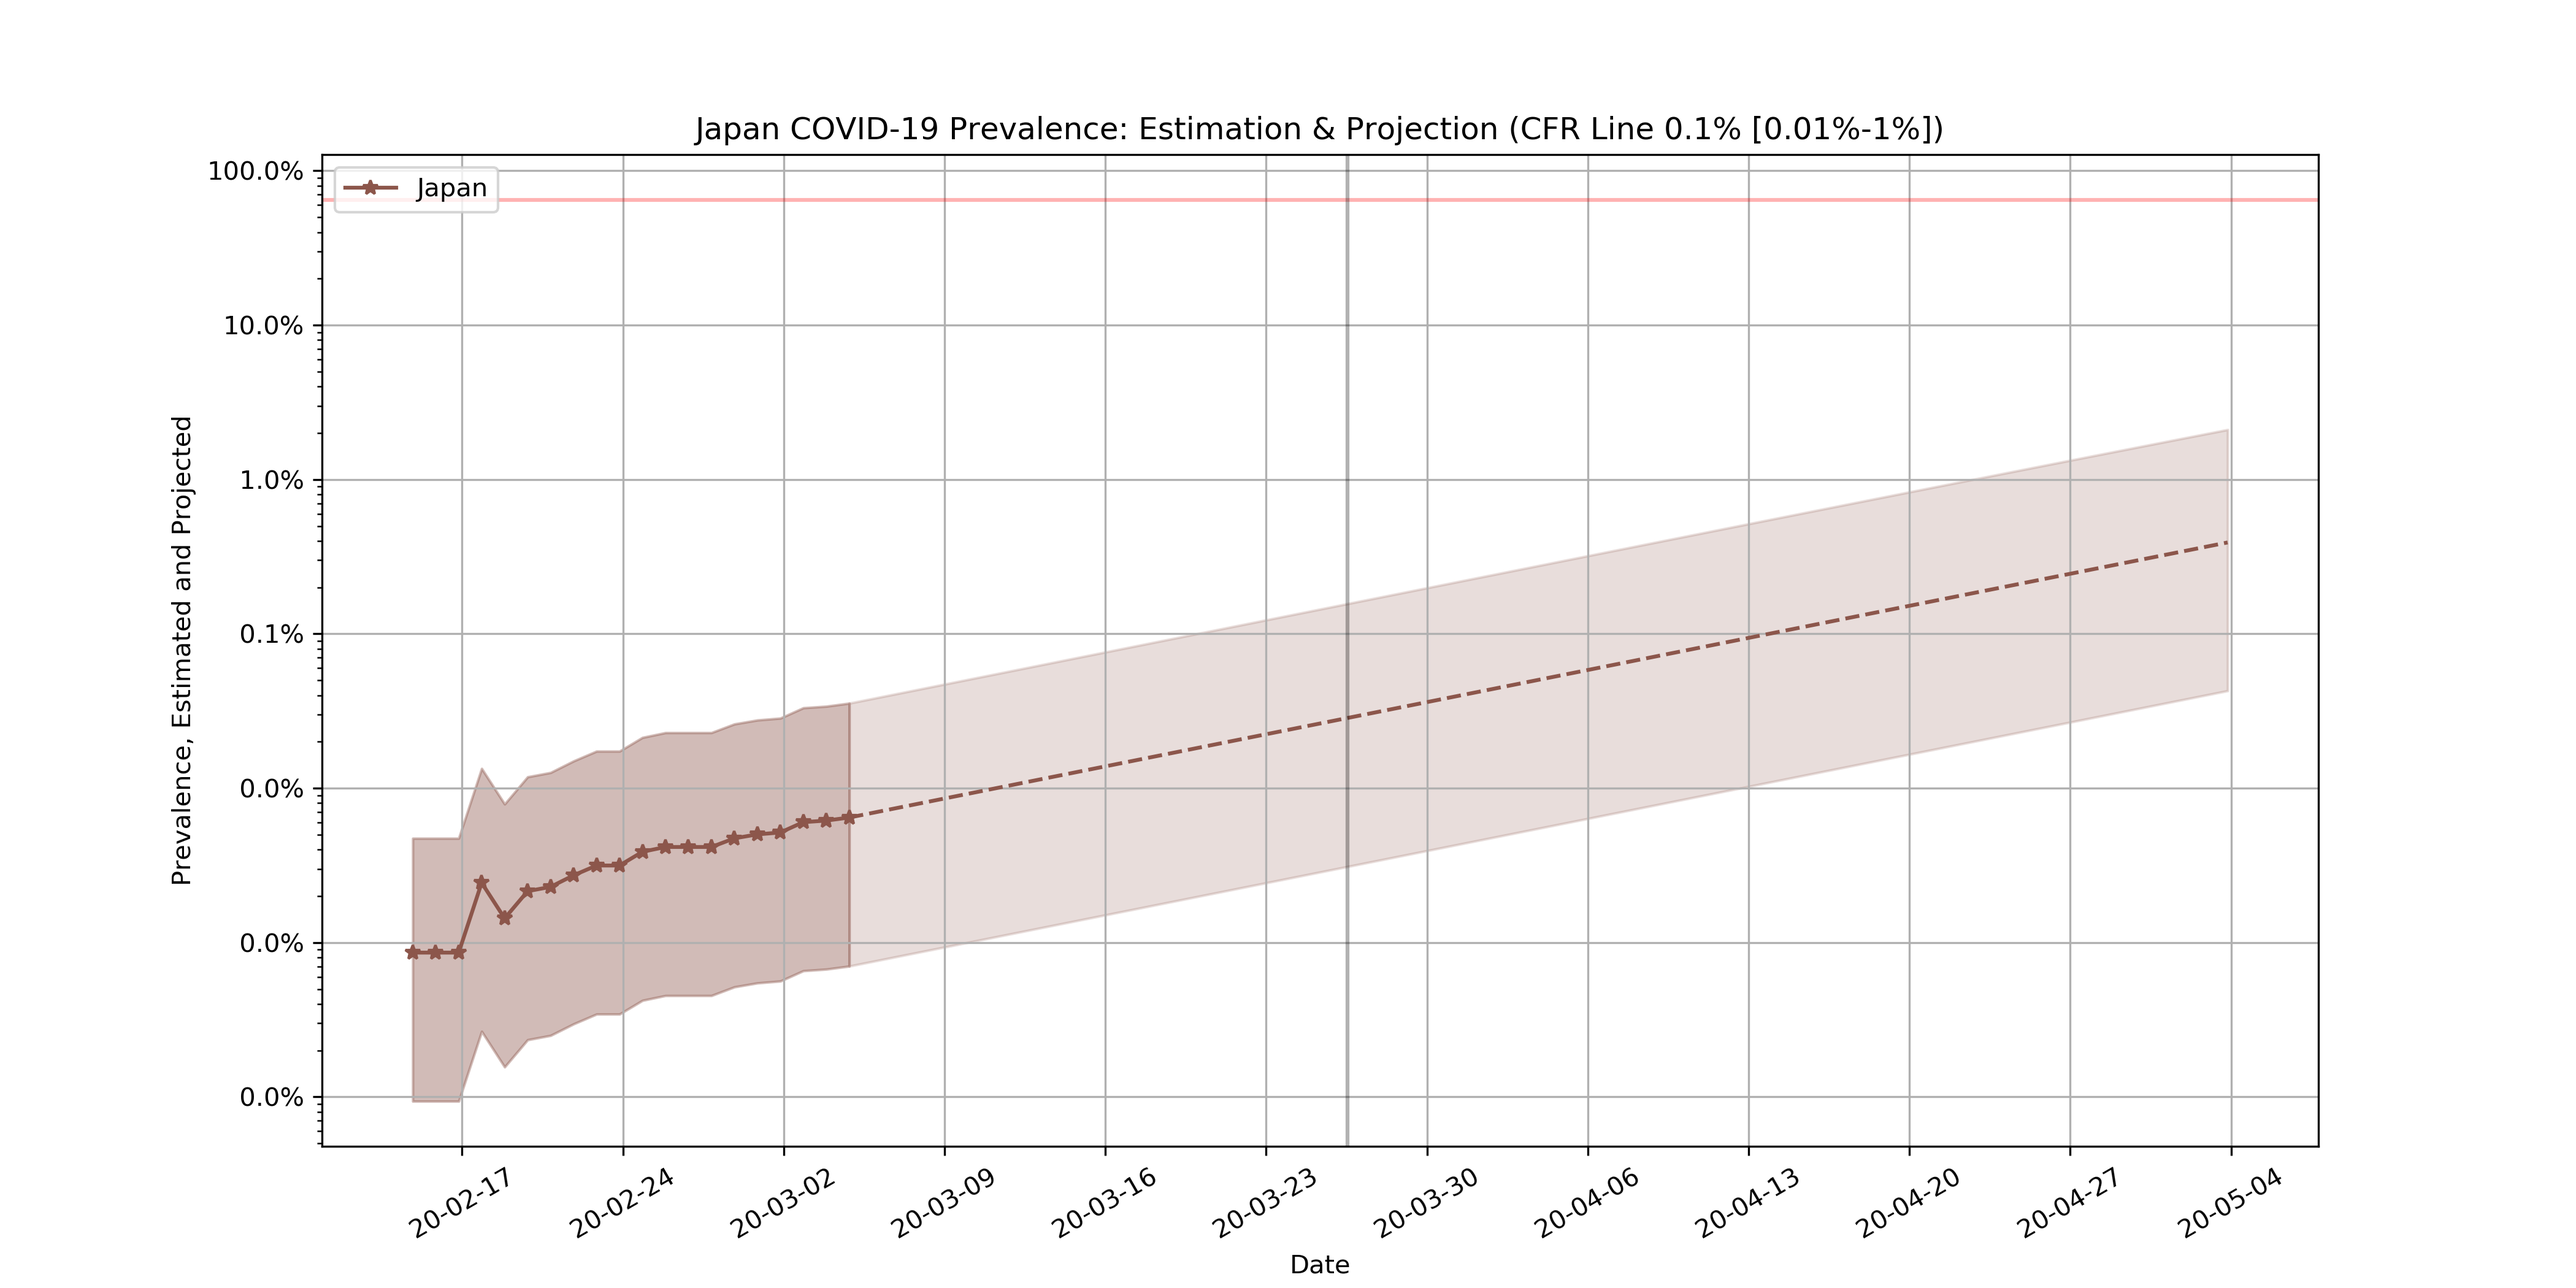
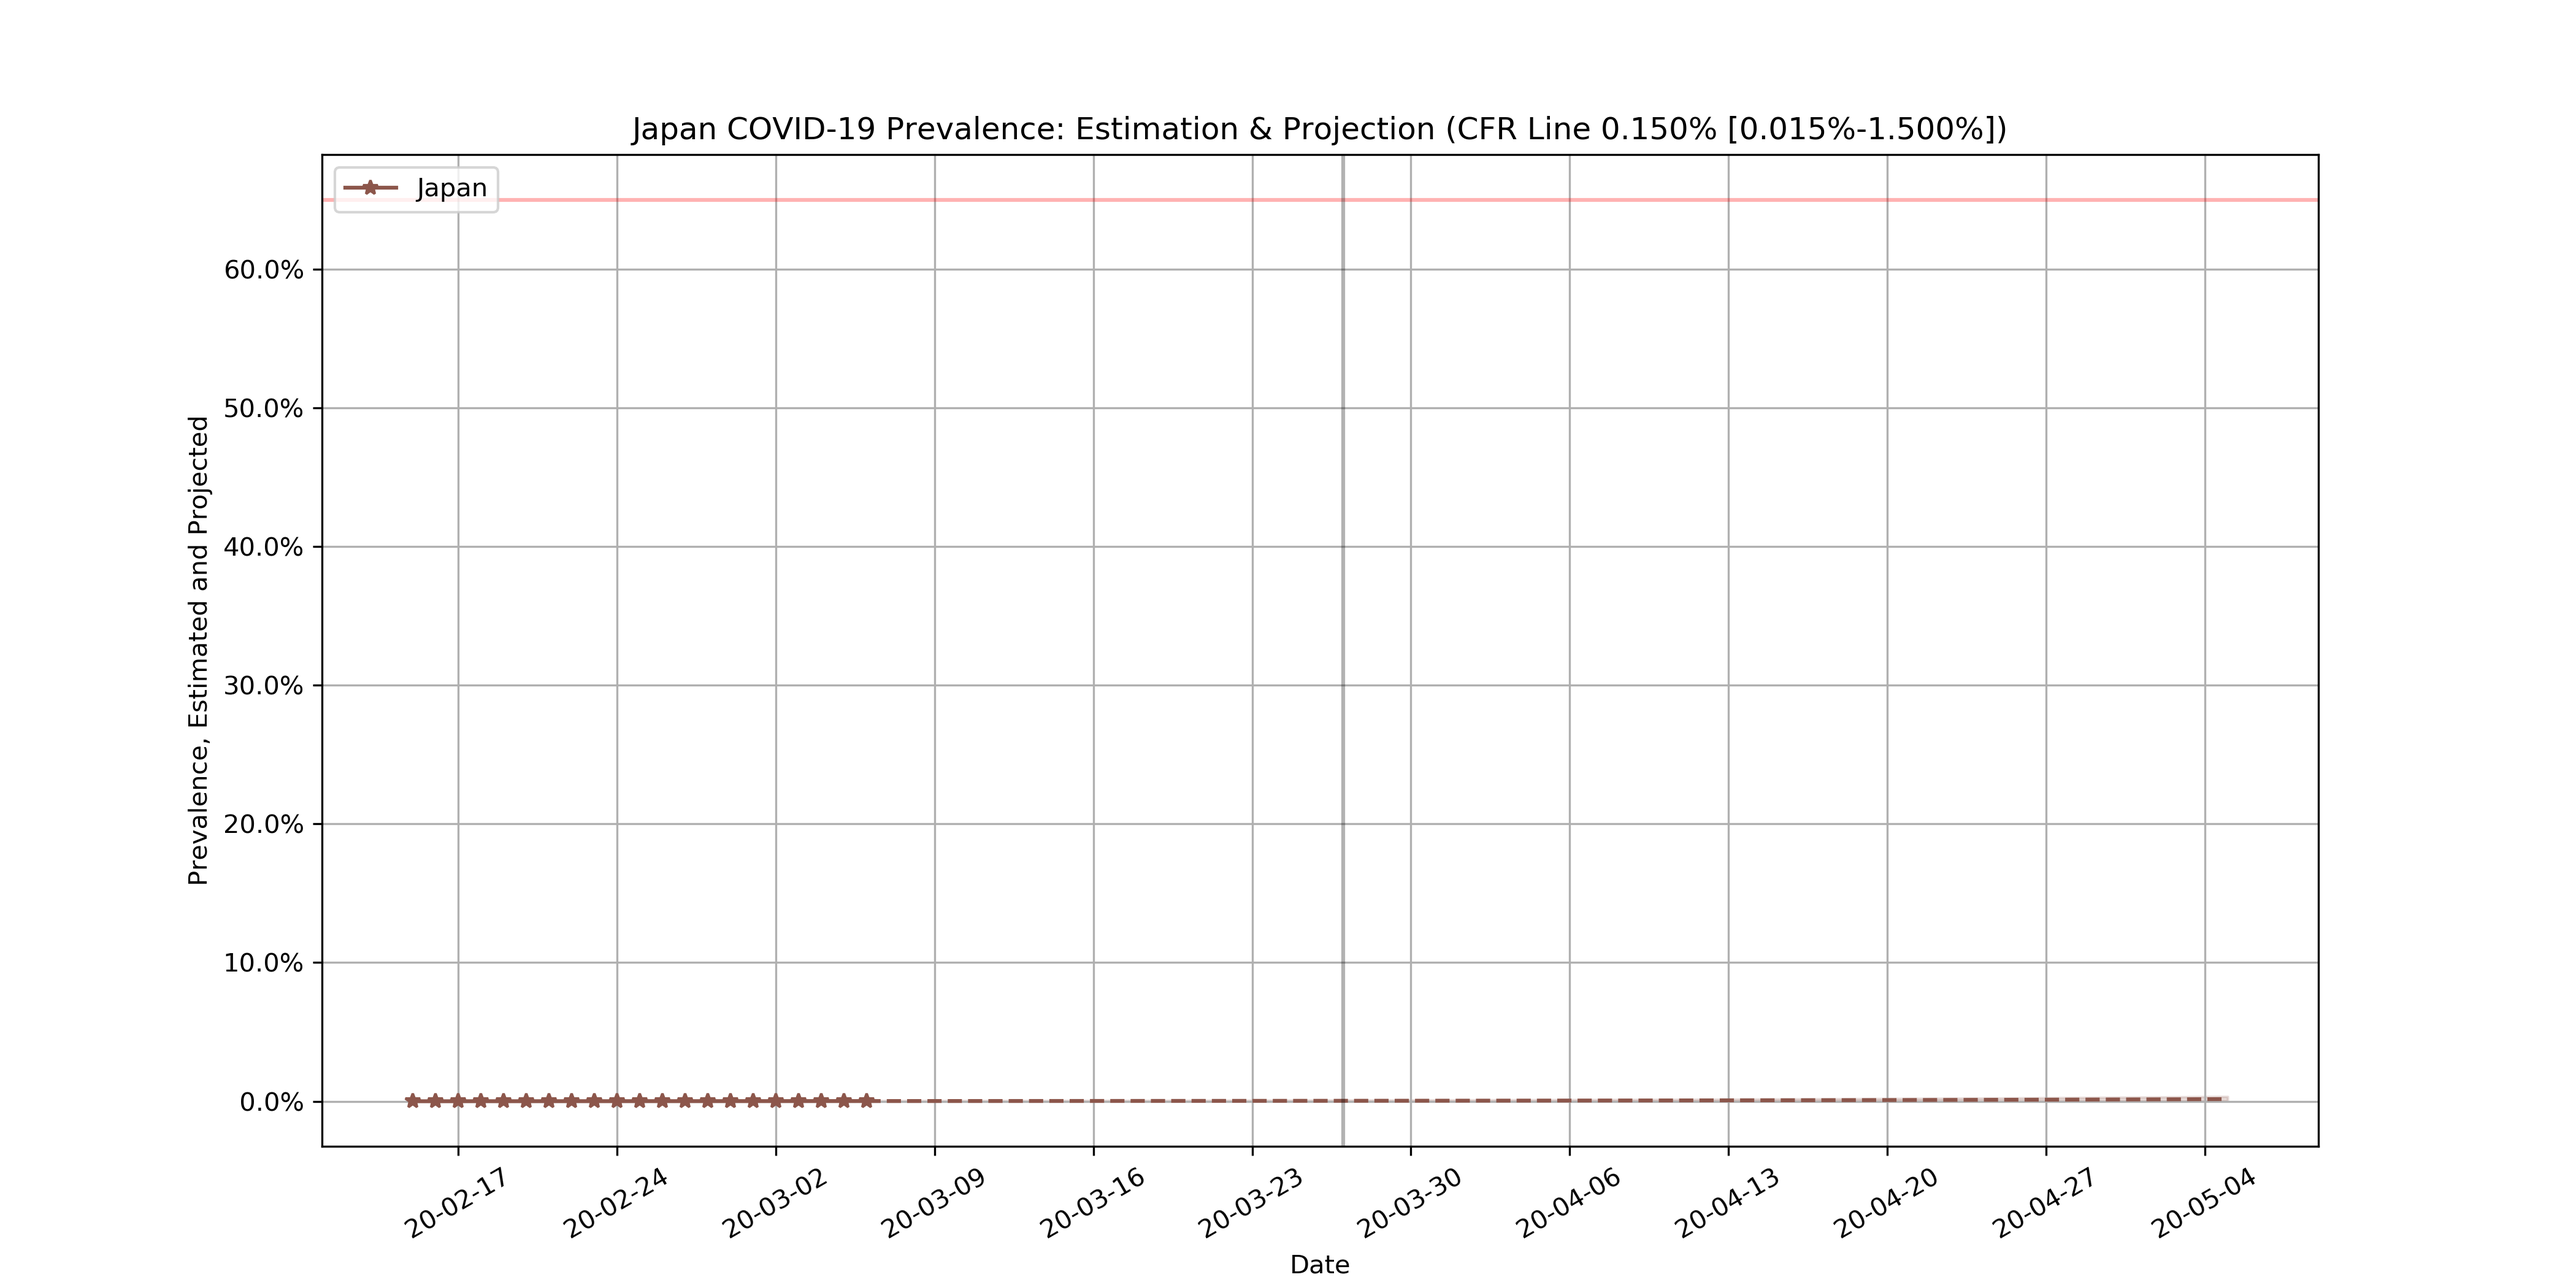
Update for 26 March 2020

diff --git a/analytical.py b/analytical.py
@@ -166,8 +166,8 @@ def estimate_project(R, D, CFR_covidx, hospital_infection_mult):
 
 if __name__ == '__main__':
     # Print a table with all countries
-    CFR_covid = 0.005
-    hospital_infection_mult = 5
+    CFR_covid = 0.0015
+    hospital_infection_mult = 10.0
 
     with open(r'figures/table.txt', 'w') as flx:
         make_table(populations, CFR_covid, hospital_infection_mult, flx)
@@ -196,12 +196,13 @@ if __name__ == '__main__':
                 continue
             
             col = c % 10
+            tick = '*+'[c//10]
 
             vals = estimate_project(R, D, CFR_covid, hospital_infection_mult)
             (Rindex, prev_y, proj_dates, proj_prev) = vals
             
             dates_x = list(map(convert_date, R.index))
-            plt.plot_date(dates_x, prev_y, fmt='*-', label = country, color=f'C{col}')
+            plt.plot_date(dates_x, prev_y, fmt=f'{tick}-', label = country, color=f'C{col}')
 
             dates_proj = list(map(date2num, proj_dates))
             plt.plot_date(dates_proj, proj_prev, fmt='--', label = None, color=f'C{col}')
@@ -273,7 +274,7 @@ if __name__ == '__main__':
         plt.axhline(y=0.65, color='r', linestyle='-', alpha=0.3)
         plt.axvline(x=date2num(datetime.today()), color='k', linestyle='-', alpha=0.3)
 
-        plt.yscale('log')
+        # plt.yscale('log')
         plt.legend(loc=2)
 
         rule = rrulewrapper(WEEKLY, byweekday=MO)
@@ -290,7 +291,7 @@ if __name__ == '__main__':
 
         plt.ylabel('Prevalence, Estimated and Projected')
         plt.xlabel('Date')
-        plt.title(f'{country} COVID-19 Prevalence: Estimation & Projection (CFR Line 0.1% [0.01%-1%])')
+        plt.title(f'{country} COVID-19 Prevalence: Estimation & Projection (CFR Line {100*CFR_covid:.3f}% [{10*CFR_covid:.3f}%-{1000*CFR_covid:.3f}%])')
 
         plt.grid()
         plt.savefig(f'figures/{country}-prev.png', dpi=300)
